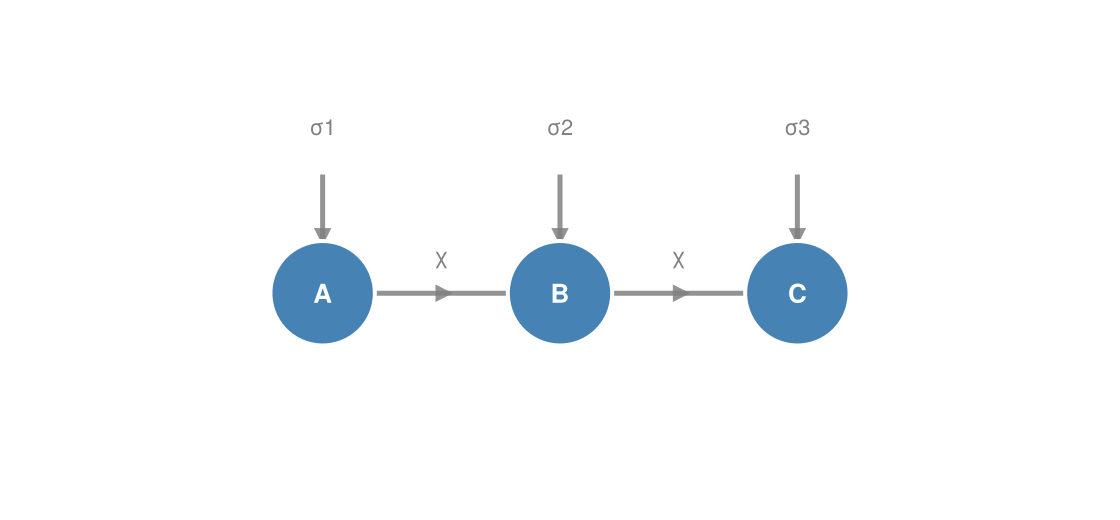
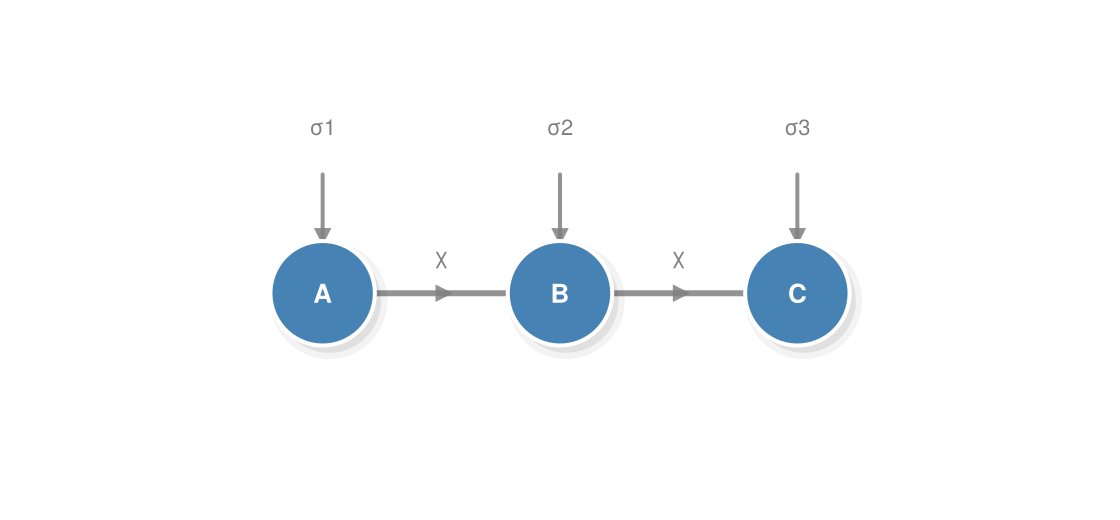
style: polish diagram rendering to match quimb's visual quality
Mutes the default colour palette, adds a soft drop shadow beneath every node
(a layered faux-blur since CairoMakie has no gaussian blur), switches all
bond/leg lines to round caps, and gives MPS bonds more visual weight than
physical-leg stubs so the network spine reads first. Also widens partition
label clearance and fixes the top/bottom label swap and tight row spacing in
the GS-3 grid-partition example.

diff --git a/docs/src/getting_started/gs3_drawing_tensor_networks.md b/docs/src/getting_started/gs3_drawing_tensor_networks.md
@@ -30,13 +30,6 @@ using Qritical
 using CairoMakie   # activates QriticalMakieExt and enables the drawing verbs
 ````
 
-````
-Precompiling packages...
-   5730.6 ms  ✓ Qritical → QriticalMakieExt
-  1 dependency successfully precompiled in 6 seconds. 347 already precompiled.
-
-````
-
 ## 1. A canvas, a tensor, a bond
 
 [`schematic`](@ref) returns an empty canvas. Every verb takes it as the first
@@ -125,8 +118,8 @@ ladder) is shown twice: once cut **vertically** into left/right halves, once cut
 ````julia
 # helper: lay down the same 2×3 grid on any canvas
 function grid_2x3!(s)
-    for r in 1:2, c in 1:3
-        tensor!(s, Symbol(:g, r, c), (c - 1, r - 1); radius=0.18, color=:slategray)
+    for r in 1:2, c in 1:3   # rows spaced 1.3 apart — leaves room for partition labels
+        tensor!(s, Symbol(:g, r, c), (c - 1, 1.3 * (r - 1)); radius=0.18, color=:slategray)
     end
     for r in 1:2, c in 1:2                       # horizontal bonds
         bond!(s, Symbol(:g, r, c), Symbol(:g, r, c + 1))
@@ -152,8 +145,8 @@ sv.fig
 ````julia
 sh = schematic(; figure_kw=(size=(460, 320),))
 grid_2x3!(sh)
-partition!(sh, [Symbol(:g, 1, c) for c in 1:3]; color=:orange, label="top")
-partition!(sh, [Symbol(:g, 2, c) for c in 1:3]; color=:steelblue, label="bottom")
+partition!(sh, [Symbol(:g, 1, c) for c in 1:3]; color=:orange, label="bottom")
+partition!(sh, [Symbol(:g, 2, c) for c in 1:3]; color=:steelblue, label="top")
 note!(sh, (1.0, -0.95), "horizontal cut"; fontsize=12, color=:gray)
 sh.fig
 ````
